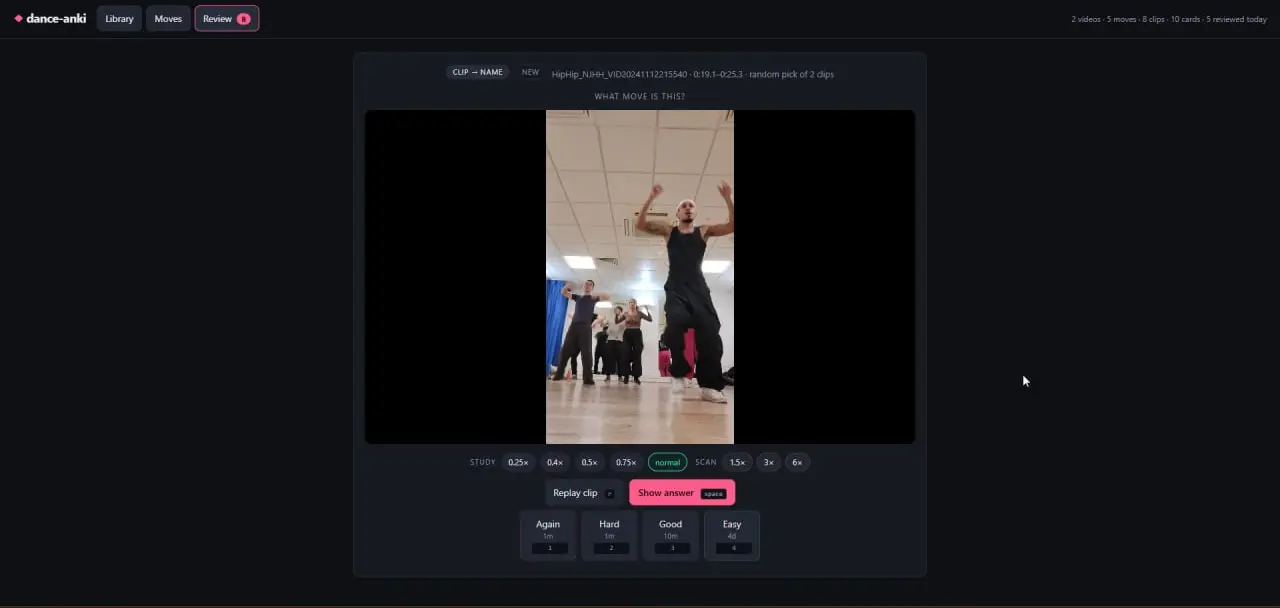
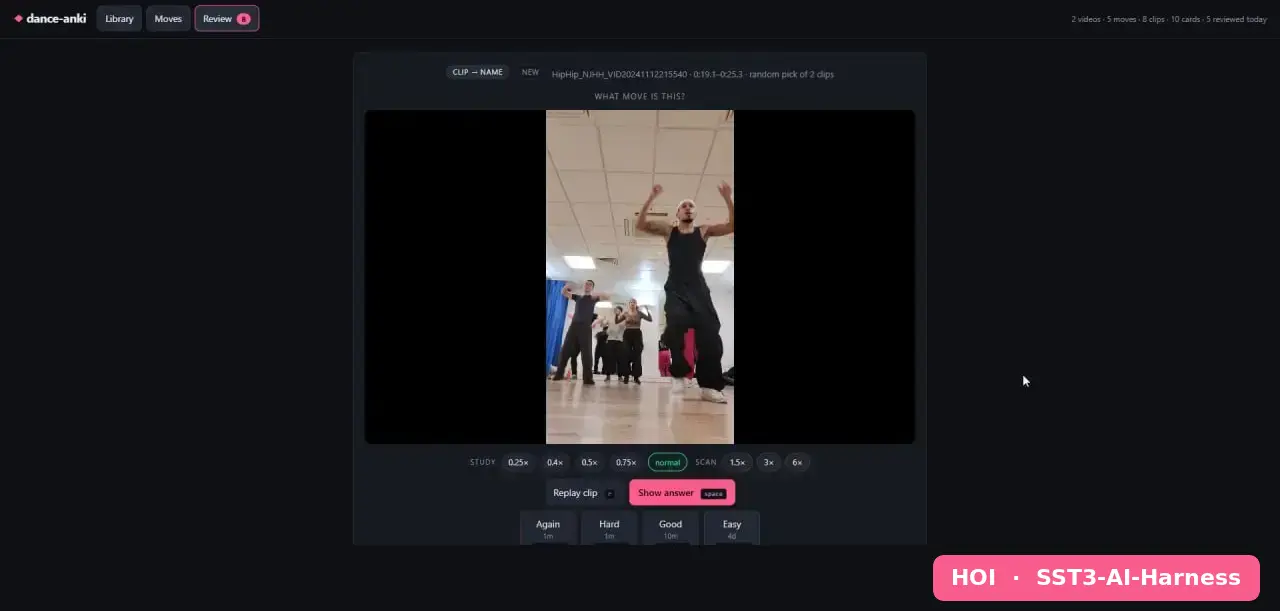
post(dance-anki): badge each screenshot with whose build it is
First-time readers could not tell the two apps apart. Every screenshot now
carries a bottom-right badge, HOI / SST3-AI-Harness in dance-anki's own pink
and MATT / No Harness in Move Studio's violet, so the colour reinforces the
identification rather than adding a third scheme.

The badge sits in a spliced strip below the viewport, not overlaid: the first
attempt covered the "cabbage patch" card on Matt's library. Alt text carries
the same identification so it is not colour-only.

Also credits where Matt's better-looking UI came from: he kept going past the
hour and prompted for a UI pass because the first cut was barebones. That beat
moved out of the tweaks section to sit next to the sentence it explains.

diff --git a/content/posts/dance-anki-two-builds-one-brief/index.md b/content/posts/dance-anki-two-builds-one-brief/index.md
@@ -87,9 +87,9 @@ I had remembered it as 20 minutes. The transcript says 18 minutes 33 seconds, so
 
 Three minutes later, at 20:43:52, my first real class video had finished uploading and I was tagging moves in it. It ran for 7 minutes 17 seconds of actual use before I asked for a single change. Inside the 30-minute budget with about 11 minutes to spare.
 
-And that was the whole brief, not a skeleton. Tagging, cross-video search, click a result and it plays that clip only and stops dead on the out-point, the jump strip, and the full Anki review mode on an SM-2 scheduler.
+And that was the whole brief, not a skeleton. Tagging, cross-video search, click a result and it plays that clip only and stops dead on the out-point, the jump strip, and the full Anki review mode.
 
-{{< zoom-image src="shots/hoi/sibling-strip.webp" alt="The dance-anki clip view. A paused class video sits above a row of buttons labelled Bart Simpson, Gucci, Steve Martin, Cabbage Patch and Power, each with a timestamp, under the caption other moves in the same video, click one to jump straight to it." title="Open one clip and every other move in that video becomes a jump button." >}}
+{{< zoom-image src="shots/hoi/sibling-strip.webp" alt="Badged HOI, SST3-AI-Harness. The dance-anki clip view. A paused class video sits above a row of buttons labelled Bart Simpson, Gucci, Steve Martin, Cabbage Patch and Power, each with a timestamp, under the caption other moves in the same video, click one to jump straight to it." title="Open one clip and every other move in that video becomes a jump button." >}}
 
 ## Matt's brief, and why it went differently
 
@@ -105,7 +105,7 @@ They are not the same shape at all.
 
 Matt picked his stack in the first eight words. Python, a venv, simple HTML. I did the opposite and asked out loud: typescript? rust? go? python? react? I did not know, so I made it go and find out. It probed the box, found no Go and no FastAPI installed, and came back with standard library only. Which killed the whole install and build step, in a pub, on pub wifi.
 
-He also wanted the video **automatically segmented** into named moves, a far more ambitious ask than mine. I specified manual tagging, because I knew I would be sat there scrubbing through it myself.
+He also wanted the video **automatically segmented** into named moves, a far more ambitious ask than mine. I specified manual tagging, because I knew I would be scrubbing through it myself.
 
 And then the two endings. Mine finishes with a deadline and an instruction on how to split the work up in parallel. His finishes with *"Help me to flesh out how the system will work"* and *"Does this make sense?"*
 
@@ -123,9 +123,9 @@ This was not a controlled experiment. Two blokes, two pints, two laptops, no sto
 
 And a fair chunk of that hour was just us talking. There were stretches where Matt's Claude Code had finished and was sat there waiting on his next prompt, and he had not clocked it because we were mid-conversation with a pint in hand. Dead time that needed his attention and did not get it. None of that is about the tooling.
 
-The harness cost me time here too. Two research agents went out at the brief, and the one researching the stack stalled and returned absolutely nothing, which did not surface until about 10 minutes in. The build carried on in parallel, so it cost a wasted dispatch rather than 10 minutes of wall clock. But an unharnessed run would never have made that dispatch at all.
+The harness cost me time here too. Two research agents went out at the brief, and the one researching the stack stalled and returned absolutely nothing, which did not surface until about 10 minutes in. The build carried on in parallel, so it cost a wasted dispatch rather than wall clock. But an unharnessed run would never have made that dispatch at all.
 
-What my [SST3-AI-Harness](https://github.com/hoiung/sst3-ai-harness) actually bought me is that I did not have to type the standards out. The workflow, the quality bar, commit per file, prove it before you claim it. Already sat there in the repo, so it just applied. A real advantage, and a much more modest one than "faster".
+What my [SST3-AI-Harness](https://github.com/hoiung/sst3-ai-harness) actually bought me is that I did not have to type the standards out. The workflow, the quality bar, commit per file. Already sat there in the repo, so it just applied. A real advantage, and a much more modest one than "faster".
 
 ## The tweaks, and this is where Matt got competitive
 
@@ -133,25 +133,25 @@ First tweak was tagging friction. Marking IN then OUT for every move meant two c
 
 Then Matt's version showed me slow motion. His had 0.25x and 0.5x from the start, mine had nothing at all, so I nicked it. Fair is fair. It is sticky too, so a move you keep failing can sit at quarter speed and follow you into review without resetting every card.
 
-Then I wanted the other end, because a 40-minute class recording is mostly not the bit you want. 1.5x, 3x and 6x for scanning. Browsers mute audio above roughly 4x, so 6x is a visual skim.
-
-Meanwhile Matt carried on doing UI improvements way, way past the one hour we agreed. Hahaha. He got competitive. I love it.
+Then I wanted the other end, because a 40-minute class recording is mostly not the bit you want. 1.5x, 3x and 6x for scanning. Browsers mute audio above roughly 4x, so 6x is a visual skim only.
 
 ## Two apps, side by side
 
 <!-- shots/matt/ gallery: Move Studio tagger + library grid -->
 
-{{< zoom-image src="shots/matt/tagger.webp" alt="Matt's Move Studio tagging screen, subtitled choreo to Anki. A video plays centre with a timeline strip below it showing a highlighted tagged region. A panel on the right holds IN and OUT fields, a move name box, a notes box, and a saved move called running man at 5 to 7 seconds with loop and delete buttons." title="Move Studio. Timeline strip, frame-by-frame nudge, crop tool, loop on every tag." >}}
+{{< zoom-image src="shots/matt/tagger.webp" alt="Badged MATT, No Harness. Matt's Move Studio tagging screen, subtitled choreo to Anki. A video plays centre with a timeline strip below it showing a highlighted tagged region. A panel on the right holds IN and OUT fields, a move name box, a notes box, and a saved move called running man at 5 to 7 seconds with loop and delete buttons." title="Move Studio. Timeline strip, frame-by-frame nudge, crop tool, loop on every tag." >}}
 
 His is called **Move Studio**, and I will say it out loud, it looks better than mine. A proper timeline strip under the video with the tagged region drawn onto it, frame-by-frame nudge on the comma and full stop keys, a crop tool, a loop button on every tag. Mine has none of that.
+
+Mind you, that is after over-over-time. He carried on way, way past the hour we agreed, and cheekily prompted Claude Code to improve the UI because it was like barebone! Hahaha. He got competitive. I love it.
 
 <!-- shots/hoi/ gallery: dance-anki moves list + recall card + recognise card + tagger -->
 
 But look at his library, then look at mine, because this is the bit that made me sit up.
 
-{{< zoom-image src="shots/matt/library.webp" alt="Matt's Move Studio library showing all tagged moves as six video cards in a row: running man, running man again, sdfs, jump thing, kriss kross and cabbage patch. The first two are the same move from two different class videos, listed as two separate cards." title="Matt's library. Running man twice, because he filmed it twice." >}}
+{{< zoom-image src="shots/matt/library.webp" alt="Badged MATT, No Harness. Matt's Move Studio library showing all tagged moves as six video cards in a row: running man, running man again, sdfs, jump thing, kriss kross and cabbage patch. The first two are the same move from two different class videos, listed as two separate cards." title="Matt's library. Running man twice, because he filmed it twice." >}}
 
-{{< zoom-image src="shots/hoi/moves-list.webp" alt="The dance-anki moves list. Each move is one collapsed row: Bart Simpson one clip, Cabbage Patch two clips across two videos, Gucci one clip, Power two clips across two videos. Cabbage Patch is expanded to show both takes underneath it." title="Mine collapses. Cabbage Patch is one row whether it is two takes or ten." >}}
+{{< zoom-image src="shots/hoi/moves-list.webp" alt="Badged HOI, SST3-AI-Harness. The dance-anki moves list. Each move is one collapsed row: Bart Simpson one clip, Cabbage Patch two clips across two videos, Gucci one clip, Power two clips across two videos. Cabbage Patch is expanded to show both takes underneath it." title="Mine collapses. Cabbage Patch is one row whether it is two takes or ten." >}}
 
 His library has "running man" in it **twice**. Two cards, because he tagged it in two different videos. Mine has one row that says "Cabbage Patch, 2 clips across 2 videos", and it will still be one row when there are ten.
 
@@ -167,11 +167,11 @@ So here, one move gives you two cards.
 
 `recall` shows you the **name**. Nothing else. Mine literally says "PERFORM THIS MOVE FROM MEMORY", then underneath, "Dance it first, actually move. Then reveal the clip and compare." So you do it, then the clip plays, and you grade how your body did rather than how your memory did.
 
-{{< zoom-image src="shots/hoi/recall-card.webp" alt="A dance-anki review card labelled name to move. It reads perform this move from memory, then the move name Steve Martin in large letters, then dance it first, actually move, then reveal the clip and compare. Speed buttons run from quarter speed to six times, above a show answer button and the Again, Hard, Good and Easy grading buttons." title="The recall card. Name on the front, and you are meant to actually dance it before you look." >}}
+{{< zoom-image src="shots/hoi/recall-card.webp" alt="Badged HOI, SST3-AI-Harness. A dance-anki review card labelled name to move. It reads perform this move from memory, then the move name Steve Martin in large letters, then dance it first, actually move, then reveal the clip and compare. Speed buttons run from quarter speed to six times, above a show answer button and the Again, Hard, Good and Easy grading buttons." title="The recall card. Name on the front, and you are meant to actually dance it before you look." >}}
 
 `recognise` flips it. "WHAT MOVE IS THIS?" over an **unlabelled clip**, and you have to name it. That is the "what on earth is that thing the teacher just did" card, and it is the one Matt and I both needed.
 
-{{< zoom-image src="shots/hoi/recognise-card.webp" alt="A dance-anki review card labelled clip to name. It asks what move is this, above a silent clip of a hip hop class in a mirrored studio with the teacher mid-move and students following behind. No move name is shown until you press show answer." title="The recognise card. Same move, question flipped." >}}
+{{< zoom-image src="shots/hoi/recognise-card.webp" alt="Badged HOI, SST3-AI-Harness. A dance-anki review card labelled clip to name. It asks what move is this, above a silent clip of a hip hop class in a mirrored studio with the teacher mid-move and students following behind. No move name is shown until you press show answer." title="The recognise card. Same move, question flipped." >}}
 
 And here is where the card-per-move decision pays off, which came out of my 21:00:56 prompt asking for randomisation rather than any grand plan.
 
